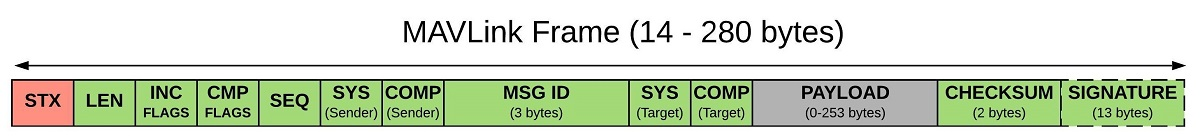
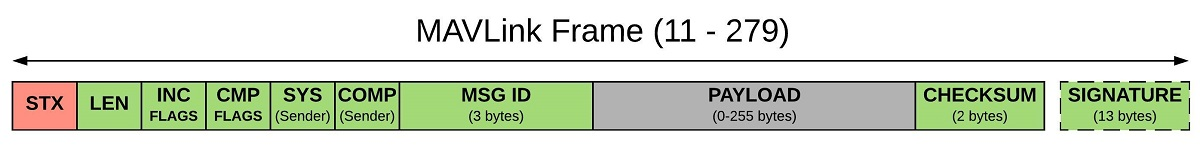
Improve serialisation topic and interlinking

Changed region(s): [[0.0, 0.5468, 1.0, 0.9209], [0.3392, 0.1151, 0.7092, 0.3453], [0.0, 0.3741, 1.0, 0.4892]]

diff --git a/en/guide/serialization.md b/en/guide/serialization.md
@@ -1,14 +1,16 @@
 # Packet Serialization
 
-MAVLink is a lightweight protocol for sending and receiving messages/commands over a serial link.
-The protocol defines the packet format used for the communication, including the mechanisms for encoding and decoding the payloads for different messages,
-and for error correction and signing.
+This topic provides detailed information about about MAVLink packet serialization, 
+including the over-the-wire formats for MAVLink v1 and v2 packets, 
+the ordering of fields in the message payload,
+and the CRC_EXTRA used for ensuring that the sender and reciever share a compatible message definition.
 
-This topic provides detail about MAVLink serialization.
-It is primarily intended for developers who are creating/maintaining a MAVLink generator, 
-and need a detailed understanding of the serialization format.
+It is primarily intended for developers who are creating/maintaining a MAVLink generator 
+
+> **Tip** MAVLink users do not typically need to understand the serialization format, as encoding/decoding is handled by the MAVLink libraries. 
 
 
+<!--
 ## MAVLink Serialization for MAVLink Users
 
 Generally speaking most MAVLink users do not need to understand the details of the serialization format;
@@ -39,77 +41,87 @@ Whatever language you are using, the resulting binary data will be the same:
 0x55 0x1C 0x1E <time> <roll> <pitch> <yaw>
 <rollspeed> <pitchspeed> <yawspeed> <crc1> <crc2>
 ```
-
+-->
 
 ## Packet Format
 
-This section shows the serialized message format of MAVLink packets.
-
-> **Info** The format is inspired by the [CAN](https://en.wikipedia.org/wiki/CAN_bus) and SAE AS-4 standards.
+This section shows the serialized message format of MAVLink packets (the format is inspired by the [CAN](https://en.wikipedia.org/wiki/CAN_bus) and SAE AS-4 standards).
 
 ### MAVLink 1 Packet Format
 
-Below is the over-the-wire format for a MAVLink 1 packet. The in-memory representation might differ.
+Below is the over-the-wire format for a MAVLink 1 packet (the in-memory representation might differ).
 
 ![MAVLink v1 packet](../../assets/packets/packet_mavlink_v1.jpg)
 
 Byte Index | C version | Content | Value | Explanation
 --- | --- | --- | --- | ---
-0 | `uint8_t magic` | Packet start marker | 0xFE | Protocol-specific start-of-text (STX) marker used to indicate the beginning of a new packet (any system that does not understand protocol version will skip packet).
-1 | `uint8_t len`   | Payload length | 0&nbsp;-&nbsp;255 | Indicates length of the following payload.
-2 | `uint8_t seq`   | Packet sequence number | 0 - 255 | Used to detect packet loss. Components increment value for each message sent. 
+0 | `uint8_t magic` | Packet start marker | 0xFE | Protocol-specific start-of-text (STX) marker used to indicate the beginning of a new packet. Any system that does not understand protocol version will skip the packet.
+1 | `uint8_t len`   | Payload length | 0&nbsp;-&nbsp;255 | Indicates length of the following `payload` section.
+2 | `uint8_t seq`   | Packet sequence number | 0 - 255 | Used to detect packet loss. Components increment value for each message sent.
 3 | `uint8_t sysid` | System ID      | 1 - 255 | ID of *system* (vehicle) sending the message. Used to differentiate systems on network.
 4 | `uint8_t compid`| Component ID   | 0 - 255 | ID of *component* sending the message. Used to differentiate components in a *system* (e.g. autopilot and a camera). 
 5 | `uint8_t msgid` | Message ID     | 0 - 255 | ID of *message type* in payload. Used to decode data back into message object.
-6 to (n+6) | `uint8_t payload[max 255]` | Payload data | | Message data. Content depends on message type (i.e. Message ID).
-(n+7) to (n+8) | `uint16_t checksum` | Checksum (low byte, high byte) | | X.25 CRC. CRC for message (excluding `magic` byte). Includes [CRC_EXTRA](#crc_extra) byte for ensuring the message definition matches the current version. The checksum is the same as used in ITU X.25 and SAE AS-4 standards ([CRC-16-CCITT](https://en.wikipedia.org/wiki/Cyclic_redundancy_check#Polynomial_representations_of_cyclic_redundancy_checks)), documented in [SAE AS5669A](http://www.sae.org/servlets/productDetail?PROD_TYP=STD&PROD_CD=AS5669A). See the MAVLink source code for [the documented C-implementation](https://github.com/mavlink/c_library_v1/blob/master/checksum.h).
+6 to (n+6) | `uint8_t payload[max 255]` | [Payload](#payload) | | Message data. Content depends on message type (i.e. Message ID).
+(n+7) to (n+8) | `uint16_t checksum` | [Checksum](#checksum) (low byte, high byte) | | X.25 CRC for message (excluding `magic` byte). Includes [CRC_EXTRA](#crc_extra) byte.
 
-* The minimum packet length is 8 bytes for acknowledgment packets without payload
-* The maximum packet length is 263 bytes for full payload
+* The minimum packet length is 8 bytes for acknowledgment packets without payload.
+* The maximum packet length is 263 bytes for full payload.
 
 
-### MAVLink 2 Packet Format
+### MAVLink 2 Packet Format {#mavlink2_packet_format}
 
-Below is the over-the-wire format for a MAVLink 2 packet (the in-memory representation might differ).
+Below is the over-the-wire format for a [MAVLink 2](../guide/mavlink_2.md) packet (the in-memory representation might differ).
 
 ![MAVLink v2 packet](../../assets/packets/packet_mavlink_v2.jpg) 
 
 
 Byte Index | C version | Content | Value | Explanation
 --- | --- | --- | --- | ---
-0 | `uint8_t magic`  | Packet start marker | 0xFD | Protocol-specific start-of-text (STX) marker used to indicate the beginning of a new packet (any system that does not understand protocol version will skip packet).
-1 | `uint8_t len`    | Payload length | 0 - 255 | Indicates length of the following payload.
-2 | `incompat_flags` | Incompatibility Flags | | Flags that must be understood for MAVLink compatibility (implementation discards packet if it does not understand flag).
-3 | `compat_flags`   | Compatibility Flags | | Flags that can be ignored if not understood (implementation can still handle packet even if it does not understand flag).
+0 | `uint8_t magic`  | Packet start marker | 0xFD | Protocol-specific start-of-text (STX) marker used to indicate the beginning of a new packet. Any system that does not understand protocol version will skip the packet.
+1 | `uint8_t len`    | Payload length | 0 - 255 | Indicates length of the following `payload` section.
+2 | `uint8_t incompat_flags` | [Incompatibility Flags](../guide/mavlink_2.md#incompat_flags) | | Flags that must be understood for MAVLink compatibility (implementation discards packet if it does not understand flag).
+3 | `uint8_t compat_flags`   | [Compatibility Flags](../guide/mavlink_2.md#compat_flags) | | Flags that can be ignored if not understood (implementation can still handle packet even if it does not understand flag).
 4 | `uint8_t seq`    | Packet sequence number | 0 - 255 | Used to detect packet loss. Components increment value for each message sent.
 5 | `uint8_t sysid`  | System ID (sender)     | 1 - 255 | ID of *system* (vehicle) sending the message. Used to differentiate systems on network.
 6 | `uint8_t compid` | Component ID (sender)   | 0 - 255 | ID of *component* sending the message. Used to differentiate components in a *system* (e.g. autopilot and a camera).
 7 to 9 | `uint32_t msgid:24` | Message ID (low, middle, high bytes) | 0 - 16777215 | ID of *message type* in payload. Used to decode data back into message object.
-10 to (n+10) | `uint8_t payload[max 255]` | Payload data | | Message data. Depends on message type (i.e. Message ID) and contents.
-(n+11) to (n+12) | `uint16_t checksum` | Checksum (low byte, high byte) | | X.25 CRC. CRC for message (excluding `magic` byte). Includes [CRC_EXTRA](#crc_extra) byte for ensuring the message definition matches the current version. The checksum is the same as used in ITU X.25 and SAE AS-4 standards ([CRC-16-CCITT](https://en.wikipedia.org/wiki/Cyclic_redundancy_check#Polynomial_representations_of_cyclic_redundancy_checks)), documented in [SAE AS5669A](http://www.sae.org/servlets/productDetail?PROD_TYP=STD&PROD_CD=AS5669A). See the MAVLink source code for [the documented C-implementation](https://github.com/mavlink/c_library_v2/blob/master/checksum.h).
-(n+12) to (n+26) | `uint8_t signature[13]`| Signature | | (Optional) Signature to ensure the link is tamper-proof.
+10 to (n+10) | `uint8_t payload[max 255]` | [Payload](#payload) | | Message data. Depends on message type (i.e. Message ID) and contents.
+(n+11) to (n+12) | `uint16_t checksum` | [Checksum](#checksum) (low byte, high byte) | | X.25 CRC for message (excluding `magic` byte). Includes [CRC_EXTRA](#crc_extra) byte.
+(n+12) to (n+26) | `uint8_t signature[13]`| [Signature](../guide/message_signing.md) | | (Optional) Signature to ensure the link is tamper-proof.
+
+* The minimum packet length is 11 bytes for acknowledgment packets without payload.
+* The maximum packet length is 279 bytes for a signed message that uses the whole payload.
 
 
+## Checksum {#checksum}
 
-## Message Field Reordering and CRC Extra Calculation {#crc_extra}
+The packet format includes a 2-byte CRC to allow detection of message corruption.
+The checksum is the same as used in ITU X.25 and SAE AS-4 standards ([CRC-16-CCITT](https://en.wikipedia.org/wiki/Cyclic_redundancy_check#Polynomial_representations_of_cyclic_redundancy_checks)), documented in [SAE AS5669A](http://www.sae.org/servlets/productDetail?PROD_TYP=STD&PROD_CD=AS5669A). See the MAVLink source code for [the documented C-implementation](https://github.com/mavlink/c_library_v2/blob/master/checksum.h).
 
-MAVLink packets include content for the specific message (identified by message id) in the payload section.
-MAVLink does not include information about the message structure in the payload in order to reduce overhead, 
+The CRC covers the whole message, excluding `magic` byte and the signature (if present). 
+The CRC includes the [CRC_EXTRA](#crc_extra) byte for ensuring the message definition matches the current version.
+ 
+
+## Payload Format {#payload}
+
+Messages are encoded within the MAVLink packet format(s)
+- The message id field identifies the actual message to be sent
+- The payload field contains the data appropriate to the particular message.
+
+MAVLink [reorders the message fields](#field_reordering) in the payload (from the original [XML Message Definitions](../messages/README.md)) for over-the-wire transmission.
+
+As MAVLink does not include information about the message structure in the payload (in order to reduce overhead), 
 so the meaning, order and size of message fields in the over-the-wire must be understood/agreed by both the sender and receiver.
 
-MAVLink reorders the fields in the XML message definition for over-the-wire transmission (in the *payload* part of the frame). 
-The reordering strategy for different MAVLink versions is given below.
-
-MAVLink adds one extra CRC (`CRC_EXTRA`) to the message checksum that allows a receiver to detect changes in [message specifications](../messages/README.md) that
+One extra CRC ([CRC_EXTRA](#crc_extra)) is added to the message checksum that allows a receiver to detect changes in [message specifications](../messages/README.md) that
 might make the over-the-wire format incompatible: new/removed fields, or changes to field name, data type, order, or array length.
 
-> **Tip** The C library's message helper receiver function [mavlink_parse_char()](../getting_started/use_source.md#receiving) 
-  will give a status `MAVLINK_FRAMING_BAD_CRC` during decoding if the message specification is incompatible.
+> **Tip** A MAVLink library should notify a bad CRC during decoding if a message specification is incompatible (e.g. the C library [mavlink_parse_char()](../getting_started/use_source.md#receiving) gives a status `MAVLINK_FRAMING_BAD_CRC`).
 
 
 ### Field Reordering {#field_reordering}
 
-The reordering happens as follows:
+Message payload fields are reordered for transmission as follows:
 
 * Fields are sorted according to their native data size, first `(u)int64_t` and `double`, then `(u)int32_t`, `float`, `(u)int16_t`, `(u)int8_t`.
 * If two fields have the same length, their order is preserved as it was present before the data field size ordering
@@ -149,7 +161,7 @@ or you can re-implement the code that calculates the seed.
 
 As MAVLink internally reorders the message fields according to their size to prevent word / halfword alignment issues (see [Data structure alignment](http://en.wikipedia.org/wiki/Data%20structure%20alignment) (Wikipedia) for further reference), and a wrongly implemented reordering potentially can cause inconsistencies as well, the `CRC_EXTRA` is calculated based on the over-the-air message layout rather than the XML order.
 
-> **Note* As discussed in the previous section, [MAVLink 2 extension fields](../guide/mavlink_2.md#message_extensions) are not included in the `CRC_EXTRA` calculation.
+> **Note** As discussed in the previous section, [MAVLink 2 extension fields](../guide/mavlink_2.md#message_extensions) are not included in the `CRC_EXTRA` calculation.
 
 This is the Python code that calculates the `CRC_EXTRA` seed:
 

diff --git a/en/guide/mavlink_2.md b/en/guide/mavlink_2.md
@@ -7,7 +7,7 @@ The key new features of *MAVLink 2* are:
 * [Packet signing](../guide/message_signing.md) (authentication)
 * [Extending existing MAVLink messages](#message_extensions)
 * [Variable length arrays](#variable_arrays) (*simplified implementation*).
-* [Non-standard fame handling (Packet Compatibility Flags)](#framing)
+* [Non-standard frame handling (Packet Compatibility Flags)](#framing)
 
 *MAVLink 2* bindings have been developed for C, C++11 and Python (see [Supported Languages](../README.md#supported_languages)).
 
@@ -90,7 +90,7 @@ The rules for extensions messages are:
 * Extension fields are not sent when a message is encoded using the *MAVLink 1* protocol. 
 * If received by an implementation that doesn't have the extensions fields then the fields will not be seen.
 * If sent by an implementation that doesn't have the extensions fields then the recipient will see zero values for the extensions fields.
-* Extension fields are [not reordered](../guide/serialization.md#field_reordering) when messages are serialized.
+* Extension fields are [not reordered](../guide/serialization.md#field_reordering) or included in the [CRC_EXTRA](../guide/serialization.md#crc_extra) when messages are serialized.
 
 For example the fields after the `<extensions>` line below are extension fields:
 
@@ -126,20 +126,32 @@ Authentication is covered in the topic: [Message signing](../guide/message_signi
 
 ## Packet Compatibility Flags {#framing}
 
-The MAVLink 2 [serialization format](../guide/serialization.md) includes new fields (`incompat_flags` and `compat_flags`) to indicate that a packet supports or requires some special/non-standard packet handling.
+The [MAVLink 2 serialization format](../guide/serialization.md#mavlink2_packet_format) includes new fields (`incompat_flags` and `compat_flags`) to indicate that a packet supports or requires some special/non-standard packet handling.
 
-> **Tip** The flags are primarily provided to allow for backwards compatible evolution of the protocol. 
-  They allow older MAVLink implementations to process packets with compatible features, while rejecting packets with incompatible features.
+The flags are primarily provided to allow for backwards compatible evolution of the protocol. 
+Older MAVLink implementations can process packets with compatible features, while rejecting packets with incompatible features.
+ 
+
+### Incompatibility Flags {#incompat_flags}
+
+Incompatibility flags are used to indicate features that a MAVLink library must support in order to be able to handle the packet.
+This includes any feature that affects the packet format/ordering.
+
+> **Note** A MAVLink implementation **must discard** a packet if it does not understand any flag in the `incompat_flags` field.
+
+Supported incompatibility flags include (at time of writing) :
+
+Flag | Feature 
+--- | ---
+`MAVLINK_IFLAG_SIGNED` | The packet is [signed](../guide/message_signing.md) (a signature has been appended to the packet).
+
+
+### Compatibility Flags {#compat_flags}
+
+Compatibility flags are used to indicate features won't prevent a MAVLink library from handling the packet (even if the feature is not understood).
+This might include, for example, a flag to indicate that a packet should be treated as "high priority" 
+(such a messages could be handled by any MAVLink implementation because packet format and structure is not affected).
+
+A MAVLink implementation can safely ignore flags it doesn't understand in the `compat_flags` field.
   
-The two fields are for specifying compatible and incompatible flags/features:
-
-- An incompatible feature is one that a MAVLink system must enable in order to be able to handle the packet.
-  For example, the `MAVLINK_IFLAG_SIGNED` is used to indicate that a signature has been appended to the packet (an implementation that doesn't understand this flag should reject the packet).
   
-  **A MAVLink implementation must discard a packet if it does not understand any flag in the `incompat_flags` field.**
-  
-- A compatible feature is one that won't prevent MAVLink from handling the packet, even if the feature is not understood.
-  For example, a flag indicating that a packet should be treated as "high priority" can be handled by any MAVLink implementation, as the packet format and structure is not affected.
-
-  **A MAVLink implementation can safely ignore flags it doesn't understand in the `compat_flags` field.**
-
